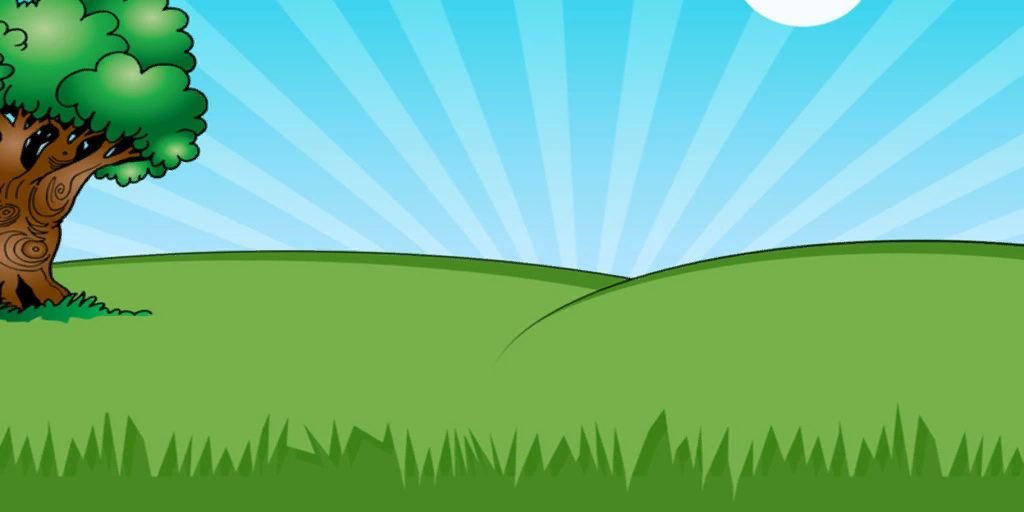
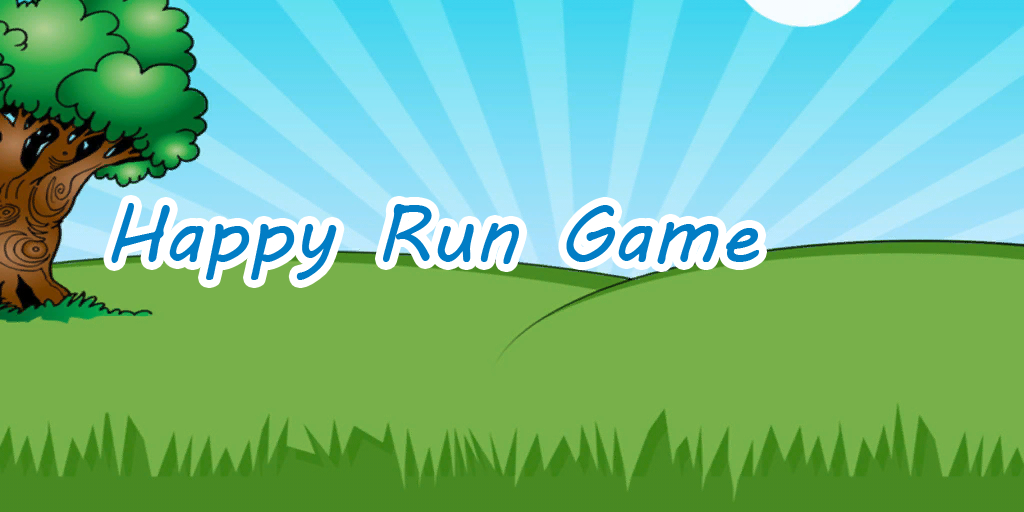
modify

Changed region(s): [[0.0938, 0.375, 0.75, 0.5625]]

diff --git a/src/com/chuanonly/rungame/MainGame.java b/src/com/chuanonly/rungame/MainGame.java
@@ -22,7 +22,6 @@ import com.chuanonly.rungame.common.Tools;
 
 public class MainGame extends DrawableScreen {
 
-	private final String TAG = "MainGame: ";
 	private static MainGame instance;
 
 	public static MainGame get() {
@@ -1076,7 +1075,8 @@ public class MainGame extends DrawableScreen {
 		this.m_fGroundDeltaY = 0f;
 		this.m_fGameSpeed = this.GetUnitBlockSize() * 6f;
 		this.m_RTGLogoSprite = new Sprite();
-		this.m_RTGLogoSprite.AddTextureByName("rtg_logo", true);
+//		this.m_RTGLogoSprite.AddTextureByName("rtg_logo", true);
+		this.m_RTGLogoSprite.AddTextureByName("menu_bg", true);
 		this.m_RTGLogoSprite.SetPosition(this.GetScreenWidth() * 0.5f,
 				this.GetScreenHeight() * 0.5f);
 		this.m_RTGLogoSprite.SetSize(800f, 480f);
